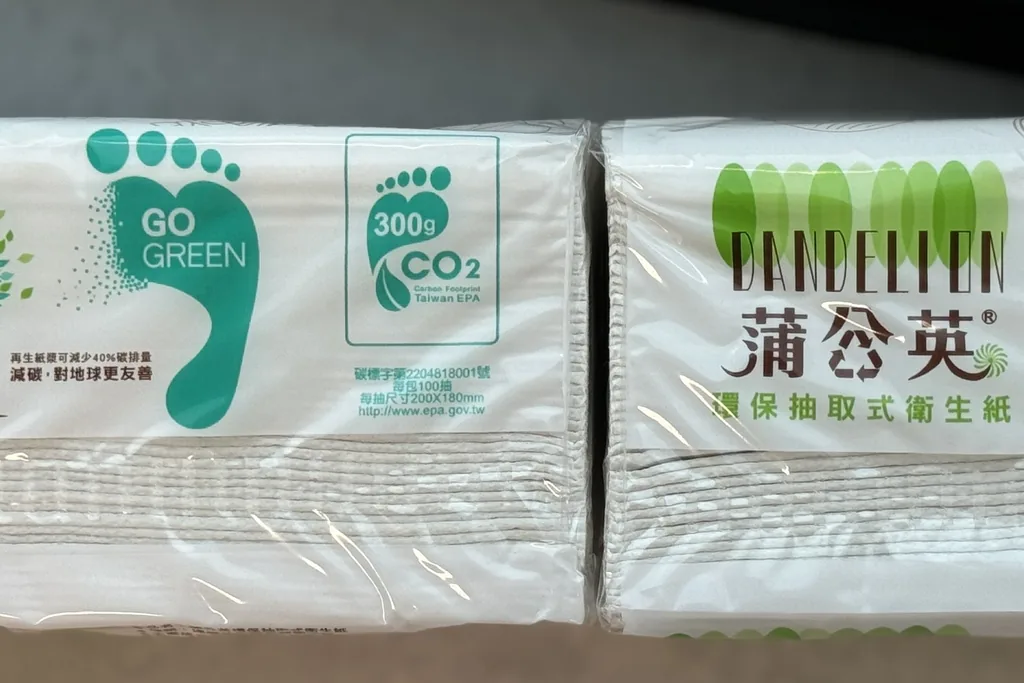
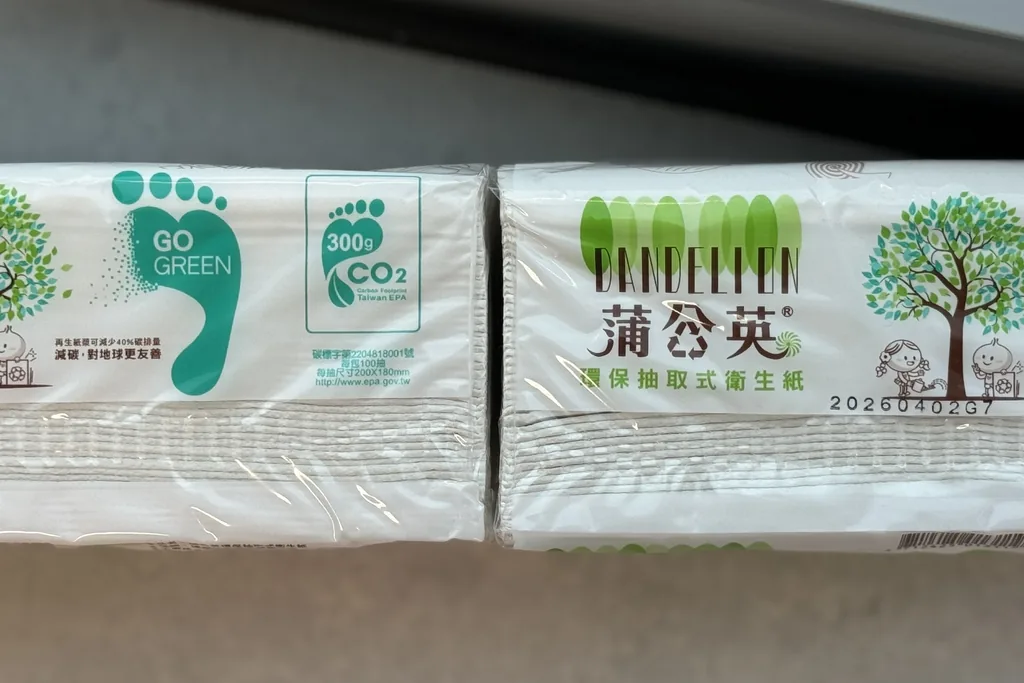
綠點輪播第 2 張依調整區重新裁切（網站＋Figma 母版）
Claude-Session: https://claude.ai/code/session_01DNVcy9hAWfEoBXu333tfb9

diff --git a/site/index.html b/site/index.html
@@ -60,7 +60,7 @@
   if (d.classList.contains('is-static') || !el) { if (el) el.remove(); boot(); return; }
   d.classList.add('is-loading');
 
-  var LIST = [["assets/01-hero/logo-mark.svg?v=b183668f",4858],["assets/01-hero/logo-zh.svg?v=8d346f0f",5519],["assets/01-hero/logo-en.svg?v=60e7896b",8959],["assets/common/icon-arrow-w-20.svg?v=a434881c",705],["assets/common/icon-arrow-dark.svg?v=ef3e488f",705],["assets/01-hero/cover-4.webp?v=cbeb0ba1",580948],["assets/01-hero/cover-3.webp?v=8b7ac2f9",131604],["assets/01-hero/cover-2.webp?v=2b4a7948",444268],["assets/01-hero/cover-1.webp?v=1ca78f26",63926],["assets/01-hero/icon-safe.svg?v=f5c482a6",1689],["assets/01-hero/icon-leaf.svg?v=a3b2b098",1502],["assets/01-hero/icon-recycle.svg?v=cdbc3b23",4489],["assets/common/icon-arrow-w.svg?v=59f46b29",703],["assets/01-hero/icon-info.svg?v=674dfdb8",2192],["assets/01-hero/tooltip-arrow.svg?v=447f4627",350],["assets/02-about/card2-ellipse-a.svg?v=ba683ba5",425],["assets/02-about/card2-ellipse-b.webp?v=a199b924",1980],["assets/02-about/card2-dot.svg?v=72e9770f",453],["assets/02-about/card3-ellipse-outer.svg?v=b56266ff",693],["assets/02-about/card3-ellipse-inner.webp?v=166f4230",1430],["assets/02-about/card3-dot.svg?v=4a92476e",852],["assets/02-about/value-cycle-s-band.svg?v=9bc24605",3054],["assets/02-about/value-cycle-l-band.svg?v=dad0d414",3024],["assets/02-about/infinity-breathe.json?v=78099a33",61823],["assets/02-about/value-cycle-s-nodes.svg?v=6b7dabd6",244089],["assets/03-paper/arrow.svg?v=bd736476",705],["assets/03-paper/step1-pulper.webp?v=898fddc0",57636],["assets/03-paper/step2-workers.webp?v=18351ed7",52372],["assets/03-paper/step3-tissue.webp?v=c2b03834",65784],["assets/03-paper/ecolabel-1.svg?v=a0c69803",3407],["assets/03-paper/ecolabel-2.svg?v=e5224c42",23883],["assets/03-paper/ecolabel-fsc.svg?v=fd5a7d01",24928],["assets/04-process/card1-typing.webp?v=0433508a",27372],["assets/04-process/icon-files.svg?v=92c13e3c",2045],["assets/04-process/card2-truck.webp?v=d0743a65",85466],["assets/04-process/icon-truck.svg?v=7d4e6f0b",2867],["assets/04-process/card3-pulper.webp?v=908b6834",92726],["assets/04-process/icon-drop.svg?v=891a87cc",1611],["assets/04-process/card4-laptop.webp?v=f0ed0319",65938],["assets/04-process/card4-screen.webp?v=4523cf3f",32332],["assets/04-process/icon-recycle.svg?v=5d97afe7",2217],["assets/04-process/icon-info.svg?v=c065a1df",2194],["assets/04-process/booking-mockup2.webp?v=409ea280",542670],["assets/04-process/prepare-1.webp?v=bd6705ba",65766],["assets/04-process/prepare-2.webp?v=c5dd358f",51946],["assets/04-process/prepare-3.webp?v=a8ebbab0",68646],["assets/04-process/route-home@2x.webp?v=b1c56fc9",53214],["assets/04-process/route-industrial@2x.webp?v=e5549499",52052],["assets/05-green/m-arrow-next.svg?v=bd736476",705],["assets/05-green/greenpts-coins.webp?v=fbf73649",43216],["assets/05-green/paper-dandelion.webp?v=0f4d01df",57340],["assets/05-green/m-icon-cart.svg?v=b4d04a8a",1651],["assets/05-green/icon-cart.svg?v=70034d6f",1837],["assets/05-green/m-icon-hand-heart.svg?v=b0851ac8",2975],["assets/05-green/icon-hand-heart.svg?v=02694811",3159],["assets/05-green/certificate-pdf@3x.webp?v=3c957f13",69942],["assets/05-green/m-icon-badge-check.svg?v=95dab9fd",3534],["assets/05-green/icon-badge-check.svg?v=bb8b13ae",3797],["assets/05-green/esg-hand.webp?v=71b1f3e5",26122],["assets/05-green/certificate-full@2x.webp?v=0bf1eb20",233280],["assets/06-strip/photo-forklift.webp?v=fc1b3409",59522],["assets/06-strip/photo-windmill.webp?v=a3225c6b",20270],["assets/06-strip/photo-seedling.webp?v=32d9afdc",43038],["assets/06-strip/photo-lab.webp?v=bd52192d",72892],["assets/06-strip/photo-pulp-stack.webp?v=81e3b8c0",34264],["assets/06-strip/photo-paper-roll.webp?v=be0c18fa",26138],["assets/07-faq/icon-minus-24.svg?v=a8a4a195",289],["assets/07-faq/icon-minus-32.svg?v=63282dd2",302],["assets/07-faq/icon-add-24.svg?v=9729f4af",309],["assets/07-faq/icon-add-32.svg?v=d2c37445",309],["assets/08-cta/bg-composite.webp?v=e24e1c79",52248],["assets/09-footer/logo-mark.svg?v=d8a5953a",4865],["assets/09-footer/logo-zh.svg?v=16f81574",5534],["assets/09-footer/logo-en.svg?v=a9707496",8800],["assets/09-footer/line-top.svg?v=216b68ae",248],["assets/04-process/card4-screen-mask.svg?v=c138c612",765]];
+  var LIST = [["assets/01-hero/logo-mark.svg?v=b183668f",4858],["assets/01-hero/logo-zh.svg?v=8d346f0f",5519],["assets/01-hero/logo-en.svg?v=60e7896b",8959],["assets/common/icon-arrow-w-20.svg?v=a434881c",705],["assets/common/icon-arrow-dark.svg?v=ef3e488f",705],["assets/01-hero/cover-4.webp?v=cbeb0ba1",580948],["assets/01-hero/cover-3.webp?v=8b7ac2f9",131604],["assets/01-hero/cover-2.webp?v=2b4a7948",444268],["assets/01-hero/cover-1.webp?v=1ca78f26",63926],["assets/01-hero/icon-safe.svg?v=f5c482a6",1689],["assets/01-hero/icon-leaf.svg?v=a3b2b098",1502],["assets/01-hero/icon-recycle.svg?v=cdbc3b23",4489],["assets/common/icon-arrow-w.svg?v=59f46b29",703],["assets/01-hero/icon-info.svg?v=674dfdb8",2192],["assets/01-hero/tooltip-arrow.svg?v=447f4627",350],["assets/02-about/card2-ellipse-a.svg?v=ba683ba5",425],["assets/02-about/card2-ellipse-b.webp?v=a199b924",1980],["assets/02-about/card2-dot.svg?v=72e9770f",453],["assets/02-about/card3-ellipse-outer.svg?v=b56266ff",693],["assets/02-about/card3-ellipse-inner.webp?v=166f4230",1430],["assets/02-about/card3-dot.svg?v=4a92476e",852],["assets/02-about/value-cycle-s-band.svg?v=9bc24605",3054],["assets/02-about/value-cycle-l-band.svg?v=dad0d414",3024],["assets/02-about/infinity-breathe.json?v=78099a33",61823],["assets/02-about/value-cycle-s-nodes.svg?v=6b7dabd6",244089],["assets/03-paper/arrow.svg?v=bd736476",705],["assets/03-paper/step1-pulper.webp?v=898fddc0",57636],["assets/03-paper/step2-workers.webp?v=18351ed7",52372],["assets/03-paper/step3-tissue.webp?v=c2b03834",65784],["assets/03-paper/ecolabel-1.svg?v=a0c69803",3407],["assets/03-paper/ecolabel-2.svg?v=e5224c42",23883],["assets/03-paper/ecolabel-fsc.svg?v=fd5a7d01",24928],["assets/04-process/card1-typing.webp?v=0433508a",27372],["assets/04-process/icon-files.svg?v=92c13e3c",2045],["assets/04-process/card2-truck.webp?v=d0743a65",85466],["assets/04-process/icon-truck.svg?v=7d4e6f0b",2867],["assets/04-process/card3-pulper.webp?v=908b6834",92726],["assets/04-process/icon-drop.svg?v=891a87cc",1611],["assets/04-process/card4-laptop.webp?v=f0ed0319",65938],["assets/04-process/card4-screen.webp?v=4523cf3f",32332],["assets/04-process/icon-recycle.svg?v=5d97afe7",2217],["assets/04-process/icon-info.svg?v=c065a1df",2194],["assets/04-process/booking-mockup2.webp?v=409ea280",542670],["assets/04-process/prepare-1.webp?v=bd6705ba",65766],["assets/04-process/prepare-2.webp?v=c5dd358f",51946],["assets/04-process/prepare-3.webp?v=a8ebbab0",68646],["assets/04-process/route-home@2x.webp?v=b1c56fc9",53214],["assets/04-process/route-industrial@2x.webp?v=e5549499",52052],["assets/05-green/m-arrow-next.svg?v=bd736476",705],["assets/05-green/greenpts-coins.webp?v=fbf73649",43216],["assets/05-green/paper-dandelion.webp?v=f6cbc137",57764],["assets/05-green/m-icon-cart.svg?v=b4d04a8a",1651],["assets/05-green/icon-cart.svg?v=70034d6f",1837],["assets/05-green/m-icon-hand-heart.svg?v=b0851ac8",2975],["assets/05-green/icon-hand-heart.svg?v=02694811",3159],["assets/05-green/certificate-pdf@3x.webp?v=3c957f13",69942],["assets/05-green/m-icon-badge-check.svg?v=95dab9fd",3534],["assets/05-green/icon-badge-check.svg?v=bb8b13ae",3797],["assets/05-green/esg-hand.webp?v=71b1f3e5",26122],["assets/05-green/certificate-full@2x.webp?v=0bf1eb20",233280],["assets/06-strip/photo-forklift.webp?v=fc1b3409",59522],["assets/06-strip/photo-windmill.webp?v=a3225c6b",20270],["assets/06-strip/photo-seedling.webp?v=32d9afdc",43038],["assets/06-strip/photo-lab.webp?v=bd52192d",72892],["assets/06-strip/photo-pulp-stack.webp?v=81e3b8c0",34264],["assets/06-strip/photo-paper-roll.webp?v=be0c18fa",26138],["assets/07-faq/icon-minus-24.svg?v=a8a4a195",289],["assets/07-faq/icon-minus-32.svg?v=63282dd2",302],["assets/07-faq/icon-add-24.svg?v=9729f4af",309],["assets/07-faq/icon-add-32.svg?v=d2c37445",309],["assets/08-cta/bg-composite.webp?v=e24e1c79",52248],["assets/09-footer/logo-mark.svg?v=d8a5953a",4865],["assets/09-footer/logo-zh.svg?v=16f81574",5534],["assets/09-footer/logo-en.svg?v=a9707496",8800],["assets/09-footer/line-top.svg?v=216b68ae",248],["assets/04-process/card4-screen-mask.svg?v=c138c612",765]];
   var MIN = 600, MAX = 15000, CONC = 6, t0 = performance.now();
   var total = 0, got = {}, done = 0, finished = false;
   LIST.forEach(function (it) { total += it[1]; });
@@ -779,7 +779,7 @@
             <span class="cl-green__patch cl-green__patch--top"></span>
           </span>
           <span class="cl-green__slide cl-green__slide--paper" data-figma="2139:29982" data-figma-s="2139:30070">
-            <img class="cl-green__paper" src="assets/05-green/paper-dandelion.webp?v=0f4d01df" alt="" loading="lazy">
+            <img class="cl-green__paper" src="assets/05-green/paper-dandelion.webp?v=f6cbc137" alt="" loading="lazy">
           </span>
           <span class="cl-info-card cl-info-card--accent cl-green__info" data-figma="I2139:30034;2139:29991" data-figma-s="I2139:30381;2139:30055">
             <span class="cl-green__info-head"><span class="cl-green__info-dot"></span><span class="cl-green__info-title">水銷綠點換算說明</span></span>
